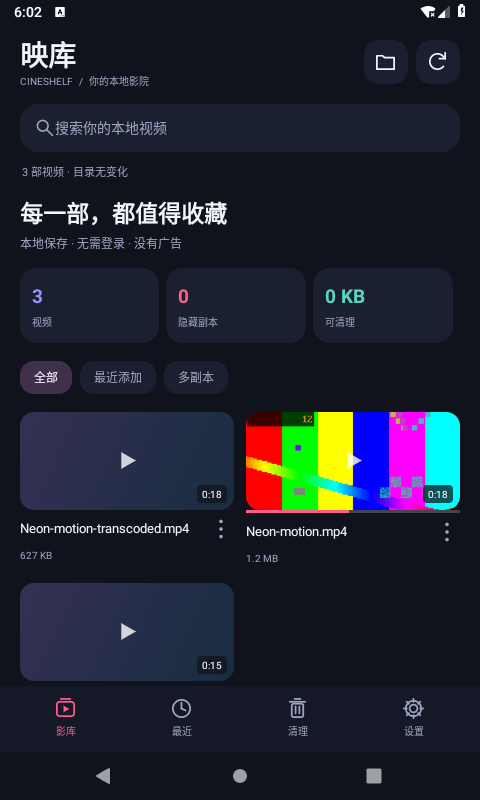
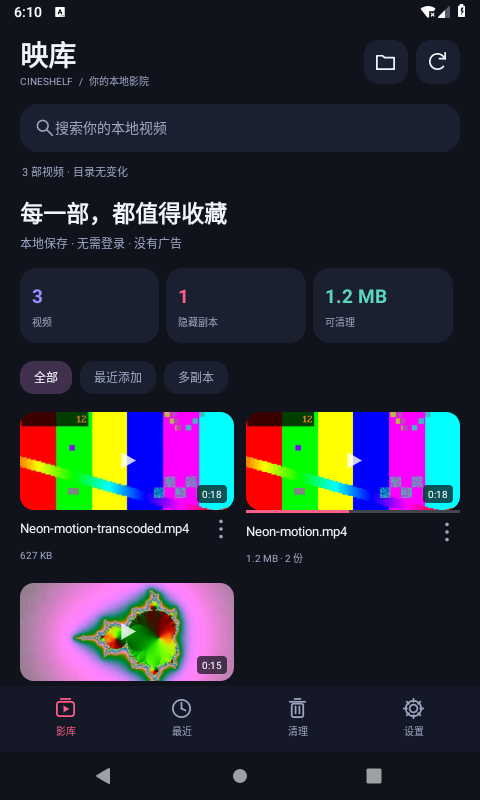
docs: record real folder permission test and add verified UI screenshots

diff --git a/源码/映库/publish.py b/源码/映库/publish.py
@@ -10,7 +10,7 @@ with zipfile.ZipFile(D/'CineShelf-source.zip','w',zipfile.ZIP_DEFLATED) as z:
  for folder in ['src','res','tests','test-app']:
   for f in (R/folder).rglob('*'):
    if f.is_file() and '__pycache__' not in f.parts:z.write(f,Path('CineShelf')/f.relative_to(R))
- for name in ['AndroidManifest.xml','build.py','build_tests.py','publish.py','README.md','VALIDATION.md','AGENTS.md','core-test-results.txt','signature.txt','permissions.txt','test-instrumentation.txt','test-logcat.txt','test-cold-restore.txt']:
+ for name in ['AndroidManifest.xml','build.py','build_tests.py','publish.py','README.md','VALIDATION.md','AGENTS.md','core-test-results.txt','signature.txt','permissions.txt','test-instrumentation.txt','test-logcat.txt','test-cold-restore.txt','test-real-folder.txt']:
   if (R/name).exists():z.write(R/name,Path('CineShelf')/name)
 source=P/'源码/映库';source.mkdir(parents=True,exist_ok=True)
 for folder in ['src','res','tests','test-app']:

diff --git a/下载文件夹/映库-验证记录.md b/下载文件夹/映库-验证记录.md
@@ -16,6 +16,10 @@ APK SHA-256：`fb71725d56dc263ed0ea14558a0011b8473bf36558f5d698e3f0942b44d694a6`
 
 本轮结果记录在源码包的 `core-test-results.txt`、`test-instrumentation.txt`、`test-logcat.txt`、`test-cold-restore.txt`。测试使用的文档格式 fixture 为独立测试提供器，不能单凭此断言所有 OEM 存储提供器行为一致。
 
+## 实际公共目录授权
+
+通过系统 ACTION_OPEN_DOCUMENT_TREE 选择 `Movies/CineShelfDemo`；持久目录授权调用成功，Android external-storage 提供器中的真实 MP4 已索引为可访问。它与独立测试提供器中的同一文件进行了完整 SHA-256 核验并合并显示（3 个条目、隐藏 1 份副本）。真实目录的文件未做删除测试。过程记录见 `test-real-folder.txt`。
+
 ## 验证范围与限制
 
 云端没有 KVM，软件模拟器启动和安装较慢，曾出现系统界面 ANR。调试时曾连接 system_server 的 JDWP 并恢复 VM 运行以避免启动时看门狗重启；正式流程测试运行时已断开。曾隐藏模拟器系统错误弹窗，测试结果以日志和断言为准，不能把无弹窗当作无 ANR。正式 APK 不包含这些测试环境设置。

diff --git a/源码/映库/VALIDATION.md b/源码/映库/VALIDATION.md
@@ -16,6 +16,10 @@ APK SHA-256：`fb71725d56dc263ed0ea14558a0011b8473bf36558f5d698e3f0942b44d694a6`
 
 本轮结果记录在源码包的 `core-test-results.txt`、`test-instrumentation.txt`、`test-logcat.txt`、`test-cold-restore.txt`。测试使用的文档格式 fixture 为独立测试提供器，不能单凭此断言所有 OEM 存储提供器行为一致。
 
+## 实际公共目录授权
+
+通过系统 ACTION_OPEN_DOCUMENT_TREE 选择 `Movies/CineShelfDemo`；持久目录授权调用成功，Android external-storage 提供器中的真实 MP4 已索引为可访问。它与独立测试提供器中的同一文件进行了完整 SHA-256 核验并合并显示（3 个条目、隐藏 1 份副本）。真实目录的文件未做删除测试。过程记录见 `test-real-folder.txt`。
+
 ## 验证范围与限制
 
 云端没有 KVM，软件模拟器启动和安装较慢，曾出现系统界面 ANR。调试时曾连接 system_server 的 JDWP 并恢复 VM 运行以避免启动时看门狗重启；正式流程测试运行时已断开。曾隐藏模拟器系统错误弹窗，测试结果以日志和断言为准，不能把无弹窗当作无 ANR。正式 APK 不包含这些测试环境设置。
